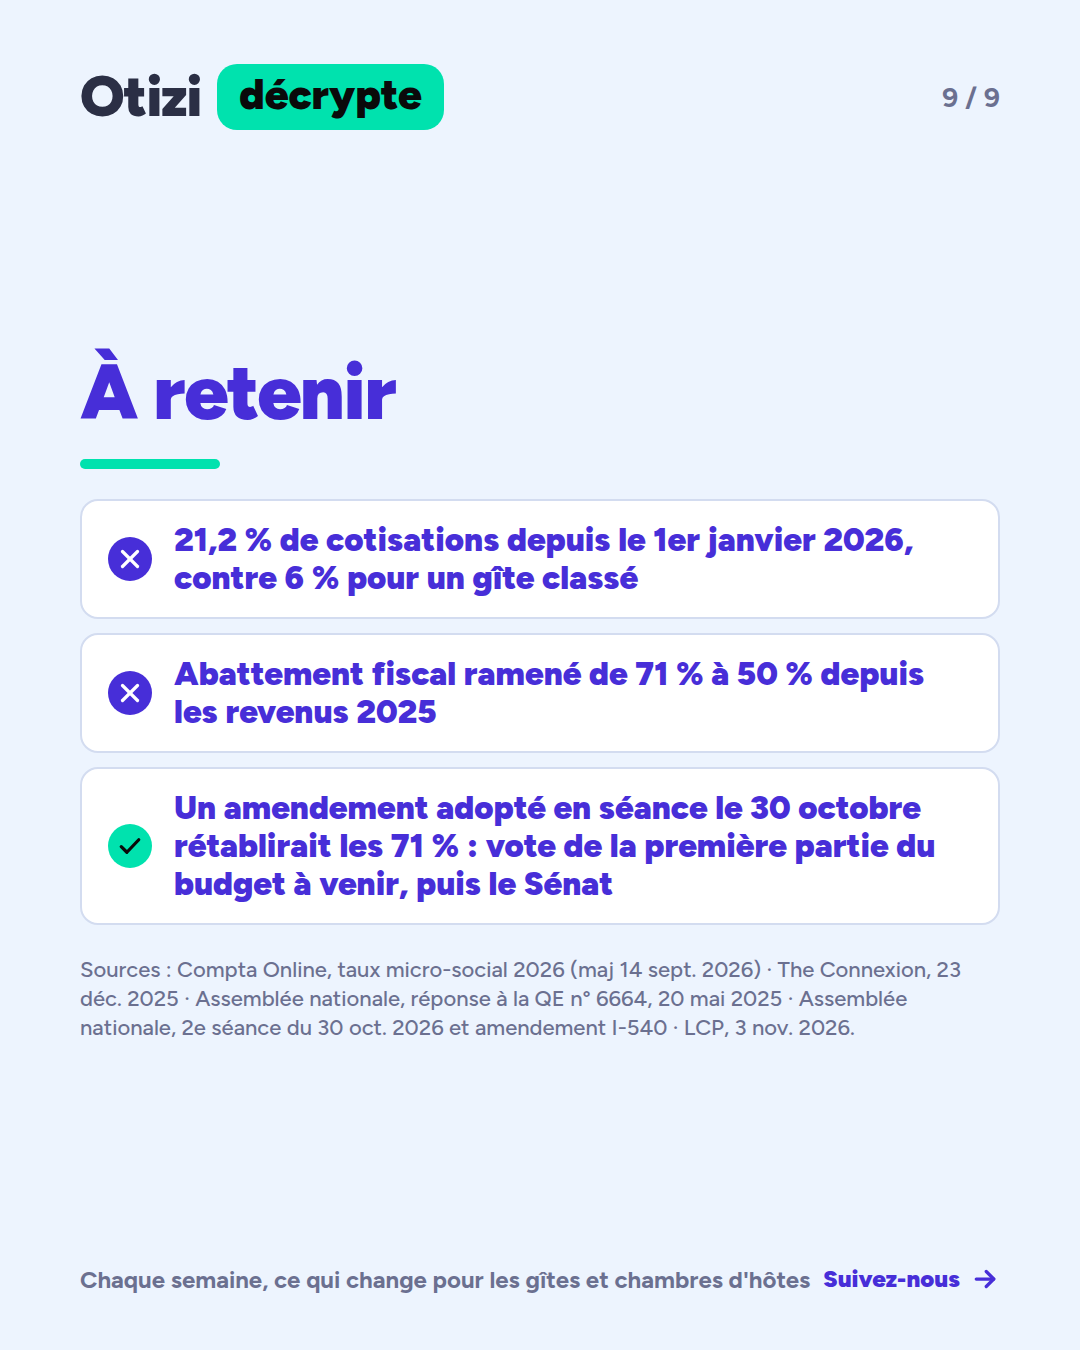
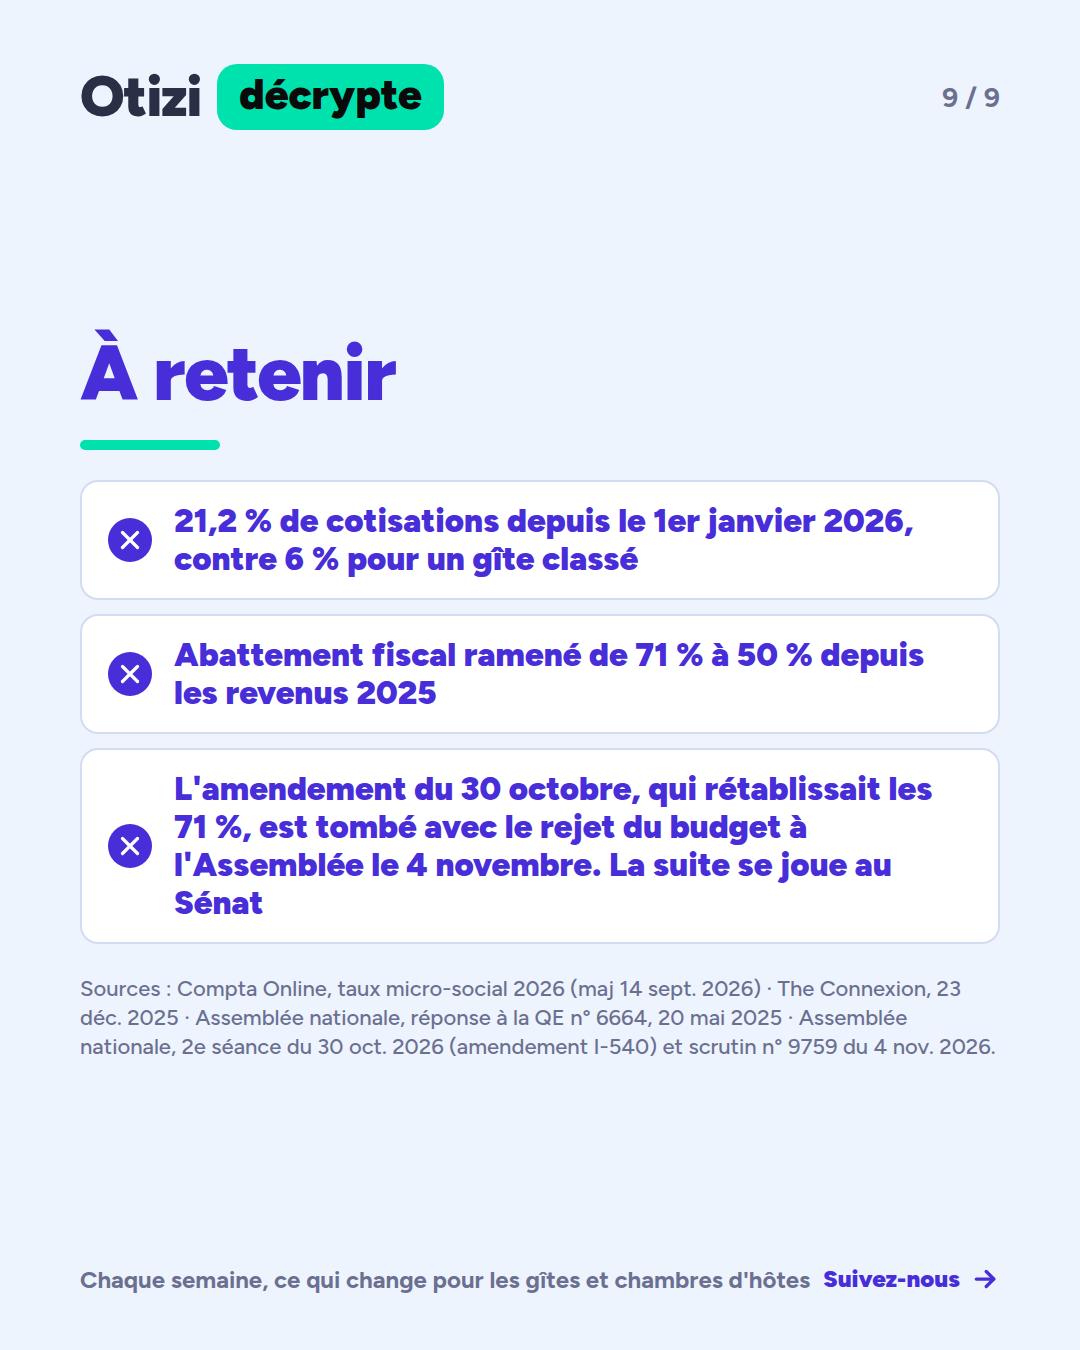
Cotisations : slides 7 et 9 refaites (première partie du budget 2027 rejetée le 4 novembre, l'amendement I-540 tombe) ; calendrier : posts des 5 et 6 nov. publiés

Changed region(s): [[0.0611, 0.2489, 0.9167, 0.7778], [0.8861, 0.7467, 0.9167, 0.7778]]

diff --git a/tools/post_cotisations.py b/tools/post_cotisations.py
@@ -9,7 +9,7 @@ N = 9
 SRC_CO = "Source : Compta Online, taux micro-social 2026 (d'après l'Urssaf)"
 SRC_CX = "Source : The Connexion, 23 déc. 2025 (maj 6 janv. 2026)"
 SRC_AN = "Source : Assemblée nationale, réponse ministérielle du 20 mai 2025 (QE n° 6664)"
-SRC_PLF = "Sources : Assemblée nationale, 2e séance du 30 oct. 2026 (amendement I-540) · LCP, 3 nov. 2026"
+SRC_PLF = "Sources : Assemblée nationale, 2e séance du 30 oct. 2026 (amendement I-540) et scrutin n° 9759 du 4 nov. 2026"
 slides = {}
 
 slides["Main.dc.html"] = page("Couverture", category_pill("Actu", "actu"),
@@ -80,11 +80,11 @@ slides["S5.dc.html"] = page("L'abattement fiscal", f"6 / {N}",
 
 slides["S6.dc.html"] = page("Budget 2027", f"7 / {N}",
     f"""
-    {title_plain(["Le budget 2027", "pourrait corriger… en partie"], 70)}
-    {para("Le 30 octobre 2026, les députés ont adopté en séance, par 37 voix contre 35, l'amendement I-540 du député Frédéric Falcon : retour au régime d'avant la loi Le Meur, soit 71 % d'abattement, pour les chambres d'hôtes, les gîtes ruraux et les meublés classés.", 31)}
+    {title_plain(["Budget 2027 : la correction", "votée, puis tombée"], 70)}
+    {para("Le 30 octobre 2026, les députés avaient adopté en séance, par 37 voix contre 35, l'amendement I-540 du député Frédéric Falcon : retour au régime d'avant la loi Le Meur, soit 71 % d'abattement, pour les chambres d'hôtes, les gîtes ruraux et les meublés classés.", 31)}
     <div style="display: flex; flex-direction: column; gap: 14px">
-      {card("l'amendement ne compte que si la première partie du budget est votée. Vote reporté, rejet jugé probable, échéance le 17 novembre, puis le Sénat.", "Rien n'est acquis :")}
-      {card("l'amendement porte sur l'impôt sur le revenu, pas sur le taux de 21,2 %.", "Il ne touche pas les cotisations :", light=True)}
+      {card("l'Assemblée a rejeté la première partie du budget, par 458 voix contre 0. Tout le texte est rejeté, et l'amendement tombe avec lui. Le Sénat repart du texte initial du gouvernement.", "Le 4 novembre,")}
+      {card("l'amendement portait sur l'impôt sur le revenu, pas sur le taux de 21,2 %.", "Il ne touchait pas les cotisations :", light=True)}
     </div>
     """,
     SRC_PLF, body_gap=30)
@@ -106,9 +106,9 @@ slides["S8.dc.html"] = page("À retenir", f"9 / {N}",
     <div style="display: flex; flex-direction: column; gap: 14px">
       {item("21,2 % de cotisations depuis le 1er janvier 2026, contre 6 % pour un gîte classé", "no")}
       {item("Abattement fiscal ramené de 71 % à 50 % depuis les revenus 2025", "no")}
-      {item("Un amendement adopté en séance le 30 octobre rétablirait les 71 % : vote de la première partie du budget à venir, puis le Sénat", "yes")}
+      {item("L'amendement du 30 octobre, qui rétablissait les 71 %, est tombé avec le rejet du budget à l'Assemblée le 4 novembre. La suite se joue au Sénat", "no")}
     </div>
-    {para("Sources : Compta Online, taux micro-social 2026 (maj 14 sept. 2026) · The Connexion, 23 déc. 2025 · Assemblée nationale, réponse à la QE n° 6664, 20 mai 2025 · Assemblée nationale, 2e séance du 30 oct. 2026 et amendement I-540 · LCP, 3 nov. 2026.", 22, MUTED)}
+    {para("Sources : Compta Online, taux micro-social 2026 (maj 14 sept. 2026) · The Connexion, 23 déc. 2025 · Assemblée nationale, réponse à la QE n° 6664, 20 mai 2025 · Assemblée nationale, 2e séance du 30 oct. 2026 (amendement I-540) et scrutin n° 9759 du 4 nov. 2026.", 22, MUTED)}
     """,
     "Chaque semaine, ce qui change pour les gîtes et chambres d'hôtes",
     f'<span style="display: inline-flex; align-items: center; gap: 10px; color: {VIOLET}; font-weight: 900">Suivez-nous {icon("arrow")}</span>',

diff --git a/tools/calendrier-editorial.md b/tools/calendrier-editorial.md
@@ -17,9 +17,9 @@ Avant de réapprovisionner le Stock par une recherche web, piocher d'abord dans 
 | Date | Famille | Sujet | État | Notes |
 |---|---|---|---|---|
 | mar 3 nov 2026 | Actu | Airbnb interdit les corvées de départ (règles du 20 nov.) | publié | https://www.instagram.com/p/DfRvIiSG77Q/ |
-| mer 5 nov 2026 | Conseil | Les 5 détails qui font une note 5 étoiles | programmé | `5-etoiles-2026-11/`, `tools/post_5etoiles.py` ; source : OnePoll pour Booking.com (nov. 2025) ; https://app.metricool.com/planner/calendar?blogId=7842510&openWithPostUuid=-5021847667835581277 |
-| ven 7 nov 2026 | Vie d'hôte | Ce que les voyageurs regardent avant de réserver (OnePoll/Booking) | programmé | `attentes-voyageurs-2026-11/`, `tools/post_attentes.py` ; source : OnePoll pour Booking.com (nov. 2025) ; https://app.metricool.com/planner/calendar?blogId=7842510&openWithPostUuid=3361623492344759532 |
-| lun 9 nov 2026 | Actu | Chambres d'hôtes : 21,2 % de cotisations, le choc 2026 | programmé | `cotisations-2026-11/`, `tools/post_cotisations.py` ; slides 7 et 9 mises à jour le 3 nov. (amendement I-540 adopté en séance le 30 oct., 37 voix contre 35) ; sources : Compta Online (taux 2026), The Connexion (23 déc. 2025), QE n° 6664, Assemblée nationale (2e séance du 30 oct. 2026), LCP (3 nov. 2026) ; article otizi.fr/blog/cotisations-chambres-hotes-2026 ; https://app.metricool.com/planner/calendar?blogId=7842510&openWithPostUuid=-4520445589692330575 |
+| jeu 5 nov 2026 | Conseil | Les 5 détails qui font une note 5 étoiles | publié | `5-etoiles-2026-11/`, `tools/post_5etoiles.py` ; source : OnePoll pour Booking.com (nov. 2025) ; https://www.instagram.com/p/DfW5zcOFT3C/ |
+| ven 6 nov 2026 | Vie d'hôte | Ce que les voyageurs regardent avant de réserver (OnePoll/Booking) | publié | `attentes-voyageurs-2026-11/`, `tools/post_attentes.py` ; source : OnePoll pour Booking.com (nov. 2025) ; publié le 6 nov. à 13h45 ; https://www.instagram.com/p/DfZo5ZJlRFB/ |
+| lun 9 nov 2026 | Actu | Chambres d'hôtes : 21,2 % de cotisations, le choc 2026 | programmé | `cotisations-2026-11/`, `tools/post_cotisations.py` ; slides 7 et 9 mises à jour le 3 nov. (amendement I-540 adopté en séance le 30 oct., 37 voix contre 35) ; sources : Compta Online (taux 2026), The Connexion (23 déc. 2025), QE n° 6664, Assemblée nationale (2e séance du 30 oct. 2026), LCP (3 nov. 2026) ; **6 nov. : première partie du budget rejetée le 4 nov. (scrutin n° 9759, 458 contre, 0 pour), l'amendement I-540 tombe ; slides 7 et 9 refaites dans le dépôt et article mis à jour, mais le post Metricool porte encore l'ancienne version (images et légende à remplacer, accord de Geoffroy attendu)** ; article otizi.fr/blog/cotisations-chambres-hotes-2026 ; https://app.metricool.com/planner/calendar?blogId=7842510&openWithPostUuid=-4520445589692330575 |
 | mer 11 nov 2026 | Conseil | Basse saison : 6 façons de remplir novembre | programmé | `basse-saison-2026-11/`, `tools/post_basse_saison.py` ; sans chiffre (aucune donnée sourcée) ; 11 nov. férié ; https://app.metricool.com/planner/calendar?blogId=7842510&openWithPostUuid=-8100446895453091157 |
 | ven 13 nov 2026 | Vie d'hôte | Le petit-déjeuner qui fait parler (chambres d'hôtes) | programmé | `petit-dejeuner-2026-11/`, `tools/post_petit_dejeuner.py` ; sources : Code du tourisme art. D. 324-13, règlement (UE) 1169/2011, décret 2015-447 ; https://app.metricool.com/planner/calendar?blogId=7842510&openWithPostUuid=3001522669669338147 |
 
@@ -36,7 +36,7 @@ Avant de réapprovisionner le Stock par une recherche web, piocher d'abord dans 
 | Actu | Chambres d'hôtes : fin de l'exonération 760 € au 31 déc. 2026 | mi-décembre | que faire au 1er janvier ; à lier au post cotisations du 9 nov. |
 | Vie d'hôte | Été 2026 : record depuis 15 ans, mais sans les étrangers | | Insee Focus n° 387 : plus de deux nuitées sur trois sont françaises ; conséquence : viser familles françaises et proximité |
 | Conseil | Livret d'accueil : ce qu'il doit contenir en 2026 | semaine du 16 nov. | arrivée autonome, Wi-Fi, tri, numéros utiles, règles façon « demandes » |
-| Actu | Budget 2027 : ce qui a été voté pour les meublés | mer 18 nov., après le vote solennel du mar 17 | amortissement 1,5 %/5 000 € par foyer ; préparé le ven 13 en version « ce qui est prévu », à finaliser le 17 au soir |
+| Actu | Budget 2027 : ce qui a été voté pour les meublés | mer 18 nov., après le vote solennel du mar 17 | amortissement 1,5 %/5 000 € par foyer ; préparé le ven 13 en version « ce qui est prévu », à finaliser le 17 au soir ; **à revoir (6 nov.) : l'Assemblée a rejeté la première partie le 4 nov. (scrutin n° 9759), il n'y aura pas de vote le 17 ; le Sénat repart du texte initial du gouvernement ; angle et date à confirmer par Geoffroy** |
 | Actu | Airbnb : les nouvelles règles entrent en vigueur | ven 20 nov. | rappel + retours d'hôtes ; boucle avec le post du 3 nov. |
 | Conseil | Fixer ses prix pour Noël et le Nouvel An | fin novembre | minimum de nuits, suppléments, dates à ne pas brader |
 | Vie d'hôte | Déco de Noël dans un gîte : jusqu'où aller ? | fin novembre | attentes, agacements, budget |
